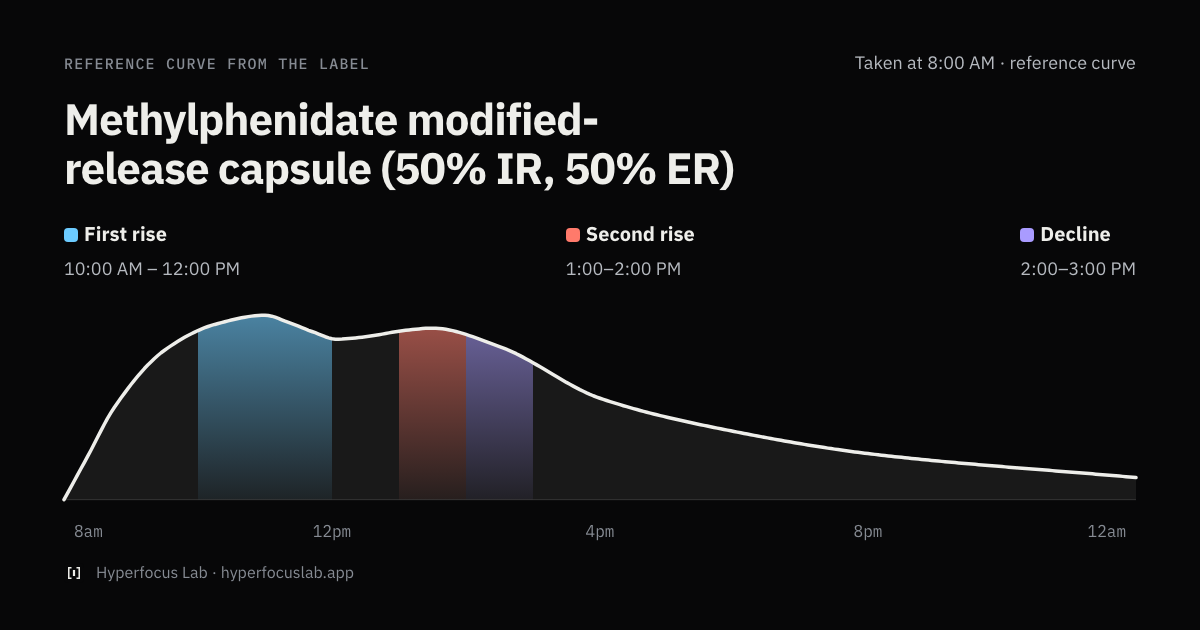
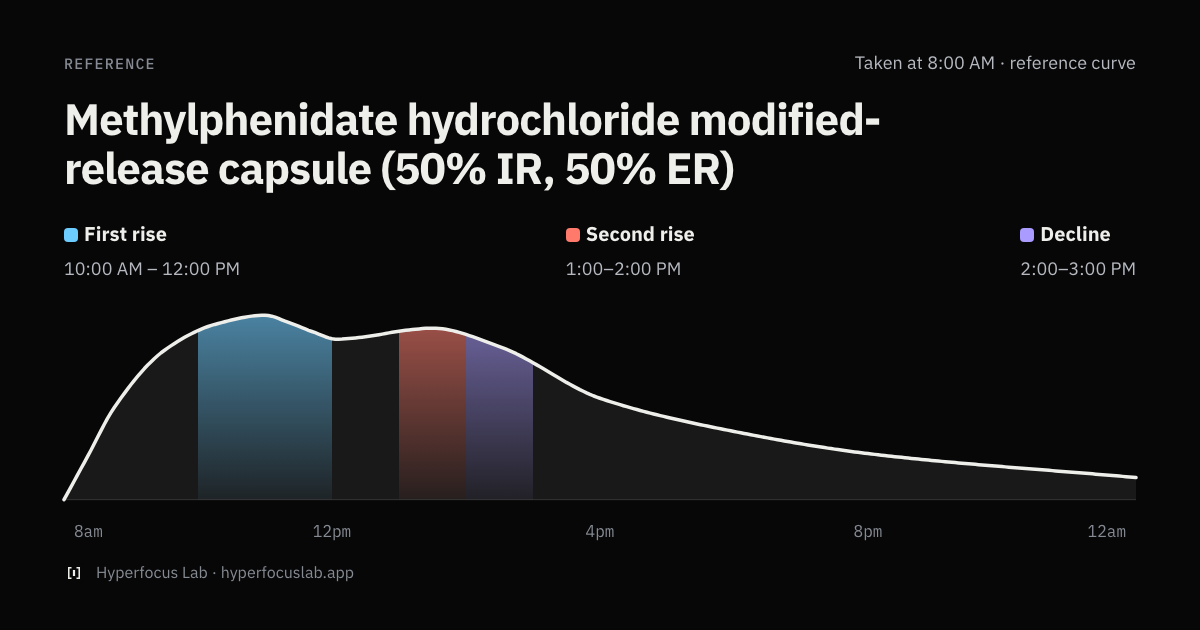
Peakly timing: salt names, no OROS, label-accurate peak times (Codex review)
A Codex (gpt-6-astra) pass over every tool page's text, checked against the labels:
- OROS is a trademark: "삼투압 방출형 서방정" / "osmotic extended-release" /
  "浸透圧型徐放錠", and the slug methylphenidate-oros → methylphenidate-osmotic.
- Ingredient names carry the salt as approved: 메틸페니데이트염산염, methylphenidate
  hydrochloride, lisdexamfetamine dimesylate, メチルフェニデート塩酸塩,
  リスデキサンフェタミンメシル酸塩; the MFDS label's hard capsule of IR and enteric pellets.
- en and ja no longer cite the manufacturer's product page for the IR tablet.
- The title, heading and description no longer present the tool's display window as
  the label's: "참고 곡선 … 곡선의 최고 농도 구간", h1 "설명서를 참고한 혈중 농도 곡선".
- "Time to peak" now quotes each label: Medikinet XL 2.75 h after breakfast (not 2–4 h),
  Adderall XR and Vyvanse fasted vs high-fat values (not ranges), Ritalin about 2 h
  (the 1–2 h was the UK figure), Ritalin LA by adults and children.
- Source links say which section they are (US prescribing information §12.3, UK SmPC §5.2);
  the ja/en "other" groups drop 日本未発売・適応外 / Not sold in the US.

Changed region(s): [[0.3392, 0.1508, 0.74, 0.2413], [0.1233, 0.0905, 0.3083, 0.1206]]

diff --git a/src/lib/timing.ts b/src/lib/timing.ts
@@ -76,12 +76,12 @@ function catalogLinks(drug: ToolDrugId, ...labels: string[]): Source[] {
 
 export const copy: Record<TimingLang, Copy> = {
   ko: {
-    title: (drug) => `${drug} 혈중 농도 흐름 | Hyperfocus Lab`,
-    description: (drug, dose, peak) =>
-      `${dose}에 복용하면 ${drug}의 설명서 기준 최고 농도 구간은 ${peak}입니다. 복용 시각을 바꿔 참고 곡선을 볼 수 있습니다.`,
-    label: '설명서 기준 참고 곡선',
+    title: (drug) => `${drug} 혈중 농도 참고 곡선 | Hyperfocus Lab`,
+    // The window is the tool's display window, not a figure from the label.
+    description: (drug, dose, peak) => `${dose} 복용 기준 ${drug}의 혈중 농도 참고 곡선입니다. 곡선의 최고 농도 구간은 ${peak}입니다.`,
+    label: '참고 자료',
     // No indication in any heading: the page shows the label's concentration data only.
-    h1: '설명서 기준 평균 혈중 농도 흐름',
+    h1: '설명서를 참고한 혈중 농도 곡선',
     drug: '성분·제형',
     time: '복용 시각',
     copy: '링크 복사',
@@ -89,12 +89,14 @@ export const copy: Record<TimingLang, Copy> = {
     now: '지금',
     // Only the first three have pages in Korean (LANG_DRUGS); the rest keep the type complete.
     names: {
-      concerta: '메틸페니데이트 OROS 서방정',
-      medikinet: '메틸페니데이트 속방·장용 펠렛 캡슐',
-      penid_ir: '메틸페니데이트 속방정',
-      ritalin_la: '메틸페니데이트 이상성 캡슐(속방 50%·지연 방출 50%)',
+      // Ingredient as the MFDS approval writes it (메틸페니데이트염산염); the release technology is
+      // described rather than named (OROS is a trademark).
+      concerta: '메틸페니데이트염산염 삼투압 방출형 서방정',
+      medikinet: '메틸페니데이트염산염 경질캡슐(속방·장용 펠렛)',
+      penid_ir: '메틸페니데이트염산염 속방정',
+      ritalin_la: '메틸페니데이트염산염 이상성 캡슐(속방 50%·지연 방출 50%)',
       adderall_xr: '혼합 암페타민염 서방 캡슐',
-      vyvanse: '리스덱스암페타민 캡슐',
+      vyvanse: '리스덱스암페타민디메실산염 캡슐',
     },
     formulations: {
       concerta: '',
@@ -118,57 +120,57 @@ export const copy: Record<TimingLang, Copy> = {
     axis: (h) => `${h}시`,
     market: '',
     sourcesTitle: '출처와 기준',
-    rows: { timing: '최고 농도', links: '출처' },
+    rows: { timing: '최고 농도 도달 시간', links: '출처' },
     schematic: '실측이 아닌 개략 곡선',
     timing: {
-      concerta: '복용 후 6~10시간',
-      medikinet: '아침 식후 복용 시 2~4시간',
-      penid_ir: '복용 후 약 2시간 (1~2시간)',
-      ritalin_la: '2차 피크: 복용 후 5.5시간 (4.3~6.5시간, 소아 평균 6.6시간)',
-      adderall_xr: '복용 후 5.2~7.7시간',
-      vyvanse: '복용 후 3.8~4.7시간',
+      // Tmax as each label states it, with its condition (checked against the labels 2026-11-04).
+      concerta: '용량별 평균 6~10시간',
+      medikinet: '아침 식후 20mg 2.75시간',
+      penid_ir: '평균 약 2시간 (10mg 정제)',
+      ritalin_la: '2차 피크: 성인 5.5시간(4.3~6.5) · 소아 6.6시간(5~11), 20mg',
+      adderall_xr: '공복 5.2시간 · 고지방식 후 7.7시간 (30mg)',
+      vyvanse: 'd-암페타민 공복 3.8시간 · 고지방식 후 4.7시간 (70mg)',
     },
     sources: {
       // The domestic approval first. Korean labels have no pharmacokinetics section, so the times
       // on the chart come from the US (FDA) or UK (emc) labels listed after it.
       concerta: [
         { label: '국내 허가사항 (식약처 의약품안전나라)', url: MFDS('202005265') },
-        { label: '미국 FDA 설명서 (최고 농도 시점)', url: PROFILES.concerta.sources[0].url },
+        { label: '미국 처방정보 12.3절 (DailyMed)', url: PROFILES.concerta.sources[0].url },
       ],
       medikinet: [
         { label: '국내 허가사항 (식약처 의약품안전나라)', url: MFDS('201111086') },
-        { label: '영국 emc 제품 특성 요약 (최고 농도 시점)', url: PROFILES.medikinet.sources[0].url },
+        { label: '영국 제품 특성 요약 5.2절 (emc)', url: PROFILES.medikinet.sources[0].url },
       ],
       penid_ir: [
         { label: '국내 허가사항 (식약처 의약품안전나라)', url: MFDS('198902796') },
-        { label: '미국 FDA 설명서 (최고 농도 시점)', url: PROFILES.penid_ir.sources[1].url },
-        { label: '영국 emc 제품 특성 요약 (반감기)', url: PROFILES.penid_ir.sources[2].url },
+        { label: '미국 처방정보 12.3절 (DailyMed)', url: PROFILES.penid_ir.sources[1].url },
+        { label: '영국 제품 특성 요약 5.2절 (emc, 반감기)', url: PROFILES.penid_ir.sources[2].url },
       ],
-      ritalin_la: catalogLinks('ritalin_la', '메틸페니데이트 이상성 캡슐 설명서 (미국 FDA, 2025년 9월 개정)', '메틸페니데이트 이상성 캡슐 설명서 (미국 FDA, 2019)'),
-      adderall_xr: catalogLinks('adderall_xr', '혼합 암페타민염 서방 캡슐 설명서 (미국 FDA, 2023)'),
-      vyvanse: catalogLinks('vyvanse', '리스덱스암페타민 캡슐 설명서 (미국 FDA, 2025)'),
+      ritalin_la: catalogLinks('ritalin_la', '미국 처방정보 (2025년 9월 개정)', '미국 처방정보 (2019)'),
+      adderall_xr: catalogLinks('adderall_xr', '미국 처방정보 12.3절 (FDA, 2023)'),
+      vyvanse: catalogLinks('vyvanse', '미국 처방정보 12.3절 (FDA, 2025)'),
     },
     notice: '개인 측정값이 아니라 설명서의 평균값으로 그린 참고 곡선입니다. 그래프가 끝나는 시점이 농도가 사라지는 시점은 아닙니다. 복용 시각·용량은 의사·약사와 상의하세요.',
     about: '피클리 소개',
   },
   en: {
-    title: (drug) => `${drug}: blood concentration over time | Hyperfocus Lab`,
-    description: (drug, dose, peak) =>
-      `Taken at ${dose}, the label's peak concentration window for ${drug} is ${peak}. Change the dose time to see the reference curve.`,
-    label: 'Reference curve from the label',
-    h1: 'Mean blood concentration over time, per the label',
+    title: (drug) => `${drug}: reference blood concentration curve | Hyperfocus Lab`,
+    description: (drug, dose, peak) => `Reference blood concentration curve for ${drug} taken at ${dose}. The curve's peak window is ${peak}.`,
+    label: 'Reference',
+    h1: 'Blood concentration curves drawn from the label',
     drug: 'Ingredient and form',
     time: 'Dose time',
     copy: 'Copy link',
     copied: 'Copied',
     now: 'Now',
     names: {
-      concerta: 'Methylphenidate OROS extended-release tablet',
-      medikinet: 'Methylphenidate modified-release capsule (50% IR, 50% ER)',
-      penid_ir: 'Methylphenidate immediate-release tablet',
-      ritalin_la: 'Methylphenidate biphasic capsule (50% IR, 50% delayed release)',
+      concerta: 'Methylphenidate hydrochloride osmotic extended-release tablet',
+      medikinet: 'Methylphenidate hydrochloride modified-release capsule (50% IR, 50% ER)',
+      penid_ir: 'Methylphenidate hydrochloride immediate-release tablet',
+      ritalin_la: 'Methylphenidate hydrochloride biphasic capsule (50% IR, 50% delayed release)',
       adderall_xr: 'Mixed amphetamine salts extended-release capsule',
-      vyvanse: 'Lisdexamfetamine capsule',
+      vyvanse: 'Lisdexamfetamine dimesylate capsule',
     },
     formulations: {
       concerta: '',
@@ -190,56 +192,50 @@ export const copy: Record<TimingLang, Copy> = {
     untilDose: (h, m) => `${h} h ${m} min until the dose`,
     nextDay: ' next day',
     axis: (h) => (h === 0 ? '12am' : h < 12 ? `${h}am` : h === 12 ? '12pm' : `${h - 12}pm`),
-    market: 'Not sold in the US',
+    market: 'Other formulations',
     sourcesTitle: 'Sources and basis',
-    rows: { timing: 'Peak', links: 'Sources' },
+    rows: { timing: 'Time to peak', links: 'Sources' },
     schematic: 'schematic, not a measured curve',
     timing: {
-      concerta: '6–10 h after the dose',
-      medikinet: '2–4 h after a dose taken after breakfast',
-      penid_ir: 'About 2 h after the dose (1–2 h)',
-      ritalin_la: 'Second peak: 5.5 h after the dose (4.3–6.5 h; children mean 6.6 h)',
-      adderall_xr: '5.2–7.7 h after the dose',
-      vyvanse: '3.8–4.7 h after the dose',
+      concerta: 'Mean 6–10 h across doses',
+      medikinet: '2.75 h (20 mg after breakfast)',
+      penid_ir: 'About 2 h on average (10 mg tablet)',
+      ritalin_la: 'Second peak: adults 5.5 h (4.3–6.5), children 6.6 h (5–11), 20 mg',
+      adderall_xr: '5.2 h fasted, 7.7 h after a high-fat meal (30 mg)',
+      vyvanse: 'd-amphetamine: 3.8 h fasted, 4.7 h after a high-fat meal (70 mg)',
     },
     sources: {
-      concerta: catalogLinks('concerta', 'Methylphenidate OROS extended-release tablet prescribing information (US FDA)'),
-      medikinet: catalogLinks('medikinet', 'Methylphenidate modified-release capsule summary of product characteristics (UK emc)'),
-      penid_ir: catalogLinks(
-        'penid_ir',
-        'Methylphenidate immediate-release tablet product information (Whanin Pharm, Korea)',
-        'Methylphenidate immediate-release tablet prescribing information (US FDA, ingredient reference)',
-        'Methylphenidate 10 mg immediate-release tablet summary of product characteristics (UK emc, half-life)',
-      ),
-      ritalin_la: catalogLinks(
-        'ritalin_la',
-        'Methylphenidate biphasic capsule prescribing information (US FDA, rev. Sept 2025)',
-        'Methylphenidate biphasic capsule prescribing information (US FDA, 2019)',
-      ),
-      adderall_xr: catalogLinks('adderall_xr', 'Mixed amphetamine salts extended-release capsule prescribing information (US FDA, 2023)'),
-      vyvanse: catalogLinks('vyvanse', 'Lisdexamfetamine capsule prescribing information (US FDA, 2025)'),
+      concerta: catalogLinks('concerta', 'US prescribing information §12.3 (DailyMed)'),
+      medikinet: catalogLinks('medikinet', 'UK summary of product characteristics §5.2 (emc)'),
+      // The manufacturer's own product page is not cited: it names the product and its uses.
+      penid_ir: [
+        { label: 'US prescribing information §12.3 (DailyMed)', url: PROFILES.penid_ir.sources[1].url },
+        { label: 'UK summary of product characteristics §5.2 (emc, half-life)', url: PROFILES.penid_ir.sources[2].url },
+      ],
+      ritalin_la: catalogLinks('ritalin_la', 'US prescribing information (rev. Sept 2025)', 'US prescribing information (2019)'),
+      adderall_xr: catalogLinks('adderall_xr', 'US prescribing information §12.3 (FDA, 2023)'),
+      vyvanse: catalogLinks('vyvanse', 'US prescribing information §12.3 (FDA, 2025)'),
     },
     notice: "A reference curve drawn from the label's mean values, not a personal measurement. The end of the chart is not where the concentration reaches zero. Ask your doctor or pharmacist about dose and timing.",
     about: 'About Peakly',
   },
   ja: {
-    title: (drug) => `${drug}の血中濃度の推移 | Hyperfocus Lab`,
-    description: (drug, dose, peak) =>
-      `${dose}に服用した場合、${drug}の製品情報に基づく最高濃度の区間は${peak}です。服用時刻を変えて参考曲線を確認できます。`,
-    label: '製品情報に基づく参考曲線',
-    h1: '製品情報に基づく平均血中濃度の推移',
+    title: (drug) => `${drug}の血中濃度参考曲線 | Hyperfocus Lab`,
+    description: (drug, dose, peak) => `${dose}に服用した場合の${drug}の血中濃度参考曲線です。曲線の最高濃度の区間は${peak}です。`,
+    label: '参考資料',
+    h1: '製品情報を参考にした血中濃度曲線',
     drug: '成分・剤形',
     time: '服用時刻',
     copy: 'リンクをコピー',
     copied: 'コピーしました',
     now: '現在',
     names: {
-      concerta: 'メチルフェニデート OROS 徐放錠',
-      medikinet: 'メチルフェニデート 徐放カプセル（速放50%・徐放50%）',
-      penid_ir: 'メチルフェニデート 速放錠',
-      ritalin_la: 'メチルフェニデート 二相性カプセル（速放50%・遅延放出50%）',
+      concerta: 'メチルフェニデート塩酸塩 浸透圧型徐放錠',
+      medikinet: 'メチルフェニデート塩酸塩 徐放カプセル（速放50%・徐放50%）',
+      penid_ir: 'メチルフェニデート塩酸塩 速放錠',
+      ritalin_la: 'メチルフェニデート塩酸塩 二相性カプセル（速放50%・遅延放出50%）',
       adderall_xr: '混合アンフェタミン塩 徐放カプセル',
-      vyvanse: 'リスデキサンフェタミン カプセル',
+      vyvanse: 'リスデキサンフェタミンメシル酸塩 カプセル',
     },
     formulations: {
       concerta: '',
@@ -261,36 +257,30 @@ export const copy: Record<TimingLang, Copy> = {
     untilDose: (h, m) => `服用まで${h}時間${m}分`,
     nextDay: '翌日 ',
     axis: (h) => `${h}時`,
-    market: '日本未発売・適応外',
+    market: 'その他の剤形',
     sourcesTitle: '出典と基準',
-    rows: { timing: '最高濃度', links: '出典' },
+    rows: { timing: '最高濃度到達時間', links: '出典' },
     // The sources are US labels (FDA) and UK product information (emc), not Japanese 添付文書;
     // the source links name the country.
     schematic: '実測ではない概略曲線',
     timing: {
-      concerta: '服用後6~10時間',
-      medikinet: '朝食後の服用で2~4時間',
-      penid_ir: '服用後約2時間（1~2時間）',
-      ritalin_la: '2回目のピーク: 服用後5.5時間（4.3~6.5時間、小児平均6.6時間）',
-      adderall_xr: '服用後5.2~7.7時間',
-      vyvanse: '服用後3.8~4.7時間',
+      concerta: '用量別の平均6~10時間',
+      medikinet: '朝食後20mgで2.75時間',
+      penid_ir: '平均約2時間（10mg錠）',
+      ritalin_la: '2回目のピーク: 成人5.5時間（4.3~6.5）・小児6.6時間（5~11）、20mg',
+      adderall_xr: '空腹時5.2時間・高脂肪食後7.7時間（30mg）',
+      vyvanse: 'd-アンフェタミン 空腹時3.8時間・高脂肪食後4.7時間（70mg）',
     },
     sources: {
-      concerta: catalogLinks('concerta', 'メチルフェニデート OROS 徐放錠 米国の製品ラベル（FDA）'),
-      medikinet: catalogLinks('medikinet', 'メチルフェニデート 徐放カプセル 英国の製品情報（emc）'),
-      penid_ir: catalogLinks(
-        'penid_ir',
-        'メチルフェニデート 速放錠 韓国の製品情報（Whanin製薬）',
-        'メチルフェニデート 速放錠 米国の製品ラベル（FDA、成分の参考）',
-        'メチルフェニデート 速放錠 10mg 英国の製品情報（emc、半減期の参考）',
-      ),
-      ritalin_la: catalogLinks(
-        'ritalin_la',
-        'メチルフェニデート 二相性カプセル 米国の製品ラベル（FDA、2025年9月改訂）',
-        'メチルフェニデート 二相性カプセル 米国の製品ラベル（FDA、2019）',
-      ),
-      adderall_xr: catalogLinks('adderall_xr', '混合アンフェタミン塩 徐放カプセル 米国の製品ラベル（FDA、2023）'),
-      vyvanse: catalogLinks('vyvanse', 'リスデキサンフェタミン カプセル 米国の製品ラベル（FDA、2025）'),
+      concerta: catalogLinks('concerta', '米国の処方情報 12.3節（DailyMed）'),
+      medikinet: catalogLinks('medikinet', '英国の製品概要 5.2節（emc）'),
+      penid_ir: [
+        { label: '米国の処方情報 12.3節（DailyMed）', url: PROFILES.penid_ir.sources[1].url },
+        { label: '英国の製品概要 5.2節（emc、半減期）', url: PROFILES.penid_ir.sources[2].url },
+      ],
+      ritalin_la: catalogLinks('ritalin_la', '米国の処方情報（2025年9月改訂）', '米国の処方情報（2019）'),
+      adderall_xr: catalogLinks('adderall_xr', '米国の処方情報 12.3節（FDA、2023）'),
+      vyvanse: catalogLinks('vyvanse', '米国の処方情報 12.3節（FDA、2025）'),
     },
     notice: '個人の測定値ではなく、製品情報の平均値から描いた参考曲線です。グラフの終わりは濃度がなくなる時点ではありません。服用時刻や用量は医師・薬剤師に相談してください。',
     about: 'ピークリーについて',

diff --git a/src/lib/timing.test.ts b/src/lib/timing.test.ts
@@ -63,22 +63,22 @@ test('tickOffsets land on whole clock hours', () => {
 });
 
 test('page titles, descriptions and headings follow the label wording', () => {
-  assert.equal(copy.ko.title(copy.ko.names.concerta), '메틸페니데이트 OROS 서방정 혈중 농도 흐름 | Hyperfocus Lab');
-  assert.equal(copy.en.title(copy.en.names.vyvanse), 'Lisdexamfetamine capsule: blood concentration over time | Hyperfocus Lab');
-  assert.equal(copy.ja.title(copy.ja.names.concerta), 'メチルフェニデート OROS 徐放錠の血中濃度の推移 | Hyperfocus Lab');
+  assert.equal(copy.ko.title(copy.ko.names.concerta), '메틸페니데이트염산염 삼투압 방출형 서방정 혈중 농도 참고 곡선 | Hyperfocus Lab');
+  assert.equal(copy.en.title(copy.en.names.vyvanse), 'Lisdexamfetamine dimesylate capsule: reference blood concentration curve | Hyperfocus Lab');
+  assert.equal(copy.ja.title(copy.ja.names.concerta), 'メチルフェニデート塩酸塩 浸透圧型徐放錠の血中濃度参考曲線 | Hyperfocus Lab');
   assert.equal(
     describe('ko', 'concerta'),
-    '오전 8:00에 복용하면 메틸페니데이트 OROS 서방정의 설명서 기준 최고 농도 구간은 오후 2:00~6:00입니다. 복용 시각을 바꿔 참고 곡선을 볼 수 있습니다.',
+    '오전 8:00 복용 기준 메틸페니데이트염산염 삼투압 방출형 서방정의 혈중 농도 참고 곡선입니다. 곡선의 최고 농도 구간은 오후 2:00~6:00입니다.',
   );
   assert.equal(
     describe('en', 'concerta'),
-    "Taken at 8:00 AM, the label's peak concentration window for Methylphenidate OROS extended-release tablet is 2:00–6:00 PM. Change the dose time to see the reference curve.",
+    "Reference blood concentration curve for Methylphenidate hydrochloride osmotic extended-release tablet taken at 8:00 AM. The curve's peak window is 2:00–6:00 PM.",
   );
   assert.equal(
     describe('ja', 'concerta'),
-    '8:00に服用した場合、メチルフェニデート OROS 徐放錠の製品情報に基づく最高濃度の区間は14:00~18:00です。服用時刻を変えて参考曲線を確認できます。',
+    '8:00に服用した場合のメチルフェニデート塩酸塩 浸透圧型徐放錠の血中濃度参考曲線です。曲線の最高濃度の区間は14:00~18:00です。',
   );
-  assert.deepEqual([copy.ko.h1, copy.en.h1, copy.ja.h1], ['설명서 기준 평균 혈중 농도 흐름', 'Mean blood concentration over time, per the label', '製品情報に基づく平均血中濃度の推移']);
+  assert.deepEqual([copy.ko.h1, copy.en.h1, copy.ja.h1], ['설명서를 참고한 혈중 농도 곡선', 'Blood concentration curves drawn from the label', '製品情報を参考にした血中濃度曲線']);
   assert.deepEqual([copy.ko.drug, copy.en.drug, copy.ja.drug], ['성분·제형', 'Ingredient and form', '成分・剤形']);
   for (const lang of TIMING_LANGS) assert.ok(!/Peakly|피클리|ピークリー/.test(copy[lang].title('X')), `${lang} title names the app`);
 });
@@ -92,7 +92,7 @@ test('each language has its own drug pages: ko only the drugs approved in Korea'
   assert.deepEqual(langsFor('vyvanse'), ['en', 'ja']);
   assert.deepEqual(langsFor('ritalin_la'), ['en', 'ja']);
   // A URL slug resolves only where the language has that page; catalog ids are not slugs.
-  assert.equal(drugIn('ko', 'methylphenidate-oros'), 'concerta');
+  assert.equal(drugIn('ko', 'methylphenidate-osmotic'), 'concerta');
   assert.equal(drugIn('ko', 'methylphenidate-ir'), 'penid_ir');
   assert.equal(drugIn('ko', 'lisdexamfetamine'), null);
   assert.equal(drugIn('ko', 'amphetamine-salts-er'), null);
@@ -101,7 +101,7 @@ test('each language has its own drug pages: ko only the drugs approved in Korea'
   for (const bad of ['concerta', 'ritalin_ir', 'constructor', '', null]) assert.equal(drugIn('en', bad), null, String(bad));
   assert.deepEqual(
     [copy.ko.names.concerta, copy.ko.names.medikinet, copy.ko.names.penid_ir],
-    ['메틸페니데이트 OROS 서방정', '메틸페니데이트 속방·장용 펠렛 캡슐', '메틸페니데이트 속방정'],
+    ['메틸페니데이트염산염 삼투압 방출형 서방정', '메틸페니데이트염산염 경질캡슐(속방·장용 펠렛)', '메틸페니데이트염산염 속방정'],
   );
 });
 
@@ -117,7 +117,7 @@ test('selectGroups lists the home market first and leaves Ritalin LA out', () =>
     ['concerta', 'penid_ir', 'adderall_xr', 'vyvanse'],
     ['medikinet'],
   ]);
-  assert.equal(selectGroups('en')[1].label, 'Not sold in the US');
+  assert.equal(selectGroups('en')[1].label, 'Other formulations');
   // The Ritalin LA page itself still lists its own drug; ko has no such page.
   assert.ok(selectGroups('en', 'ritalin_la')[1].ids.includes('ritalin_la'));
   assert.deepEqual(selectGroups('ko', 'ritalin_la').flatMap((g) => g.ids), ['concerta', 'medikinet', 'penid_ir']);
@@ -336,7 +336,7 @@ test('the status title and the now dot take the app\'s status colour', () => {
   assert.equal(title('concerta', 13), '<p class="pk-phase" style="color:#8E8E93">후반 구간');
   assert.equal(title('adderall_xr', 14), '<p class="pk-phase" style="color:#8E8E93">농도 감소 구간');
   assert.equal(title('concerta', -1), '<p class="pk-phase">복용 전');
-  assert.equal(title('concerta', null), '<p class="pk-phase">메틸페니데이트 OROS 서방정');
+  assert.equal(title('concerta', null), '<p class="pk-phase">메틸페니데이트염산염 삼투압 방출형 서방정');
   // The dot has the same colour inline; the left/top part is unchanged.
   assert.ok(dot('concerta', 2)?.endsWith(`;background:${first}`));
   assert.ok(dot('concerta', 8)?.endsWith(`;background:${main}`));
@@ -389,9 +389,13 @@ test('render produces the chart, legend and sources for every page', () => {
       assert.ok(!/Tmax|Peakly reference|기존 앱|既存アプリ/.test(r.sources), `${lang} ${drug} internal wording`);
     }
   }
-  // en and ja link the catalog's sources; ko has its own list so it can move to MFDS pages.
+  // en and ja link the catalog's sources, less the manufacturer page for the IR tablet; ko leads
+  // with the MFDS approval records.
   for (const lang of ['en', 'ja'] as const) {
-    for (const drug of DRUG_IDS) assert.deepEqual(copy[lang].sources[drug].map((s) => s.url), PROFILES[drug].sources.map((s) => s.url), `${lang} ${drug}`);
+    for (const drug of DRUG_IDS) {
+      const catalog = PROFILES[drug].sources.map((s) => s.url).filter((u) => !u.includes('whanin'));
+      assert.deepEqual(copy[lang].sources[drug].map((s) => s.url), catalog, `${lang} ${drug}`);
+    }
   }
   // No conditions row. The grey note says what the curve is measured as and whether it is
   // schematic; a name that already says it all has no note.
@@ -400,8 +404,8 @@ test('render produces the chart, legend and sources for every page', () => {
   assert.ok(sources('vyvanse').includes('<span class="muted">활성체 d-암페타민 기준 · 실측이 아닌 개략 곡선</span>'));
   assert.ok(sources('adderall_xr').includes('<span class="muted">d-암페타민 기준</span>'));
   assert.ok(sources('penid_ir').includes('<span class="muted">실측이 아닌 개략 곡선</span>'));
-  assert.equal(sources('concerta').split('</p>')[0], '<p class="pk-drug-name">메틸페니데이트 OROS 서방정');
-  assert.equal(sources('medikinet').split('</p>')[0], '<p class="pk-drug-name">메틸페니데이트 속방·장용 펠렛 캡슐');
+  assert.equal(sources('concerta').split('</p>')[0], '<p class="pk-drug-name">메틸페니데이트염산염 삼투압 방출형 서방정');
+  assert.equal(sources('medikinet').split('</p>')[0], '<p class="pk-drug-name">메틸페니데이트염산염 경질캡슐(속방·장용 펠렛)');
   // Korean pages cite the domestic approval first, then the label the times come from.
   for (const drug of ['concerta', 'medikinet', 'penid_ir'] as const) {
     const links = [...sources(drug).matchAll(/<a href="([^"]+)"[^>]*>([^<]+)<\/a>/g)];
@@ -410,9 +414,14 @@ test('render produces the chart, legend and sources for every page', () => {
     assert.ok(links.length >= 2 && !links[1][1].includes('mfds'), `${drug} keeps a label with the times`);
   }
   assert.ok(!sources('penid_ir').includes('환인'));
+  // No language cites the manufacturer's product page, and OROS (a trademark) appears nowhere.
+  for (const lang of TIMING_LANGS) {
+    assert.ok(!copy[lang].sources.penid_ir.some((s) => s.url.includes('whanin')), lang);
+    assert.ok(!JSON.stringify(copy[lang]).includes('OROS'), lang);
+  }
   // Build time has no clock: the header shows the drug, not a phase, and no marker.
   const first = render({ lang: 'ko', drug: 'concerta', minutes: 480, nowHours: null });
-  assert.ok(first.status.includes('메틸페니데이트 OROS 서방정'));
+  assert.ok(first.status.includes('메틸페니데이트염산염 삼투압 방출형 서방정'));
   assert.ok(!first.chart.includes('pk-now-dot'));
   // Beyond the chart the marker is hidden but the status still names the phase.
   const late = render({ lang: 'ko', drug: 'adderall_xr', minutes: 480, nowHours: 20 });

diff --git a/src/lib/pk.ts b/src/lib/pk.ts
@@ -147,7 +147,7 @@ export const DRUG_IDS: ToolDrugId[] = ['concerta', 'medikinet', 'penid_ir', 'add
 /// What a reader sees in the URL and the share card's file name: ingredient and form, never a
 /// product name. The catalog ids stay inside the code.
 export const DRUG_SLUGS: Record<ToolDrugId, string> = {
-  concerta: 'methylphenidate-oros',
+  concerta: 'methylphenidate-osmotic',
   medikinet: 'methylphenidate-mr',
   penid_ir: 'methylphenidate-ir',
   ritalin_la: 'methylphenidate-biphasic',
@@ -157,7 +157,7 @@ export const DRUG_SLUGS: Record<ToolDrugId, string> = {
 
 const BY_SLUG = new Map<string, ToolDrugId>(DRUG_IDS.map((id) => [DRUG_SLUGS[id], id]));
 
-/// The tool's drug for a URL slug (?drug=methylphenidate-oros), or null. A Map, so inherited
+/// The tool's drug for a URL slug (?drug=methylphenidate-osmotic), or null. A Map, so inherited
 /// object keys (?drug=constructor) are not slugs.
 export function drugFromSlug(value: unknown): ToolDrugId | null {
   return typeof value === 'string' ? (BY_SLUG.get(value) ?? null) : null;
